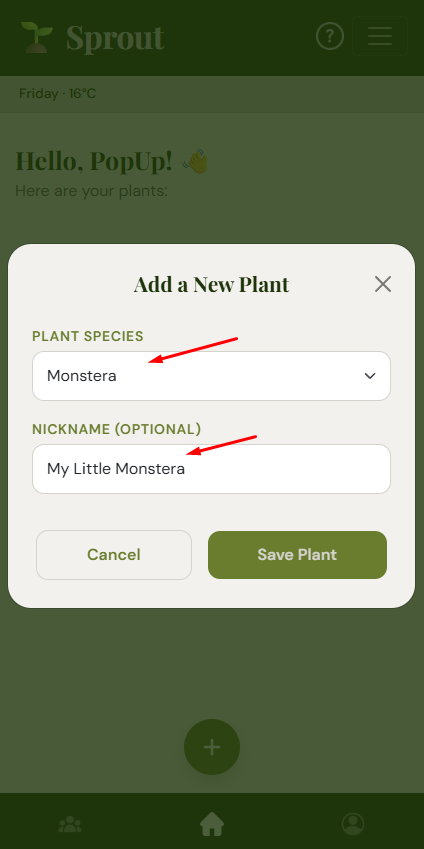
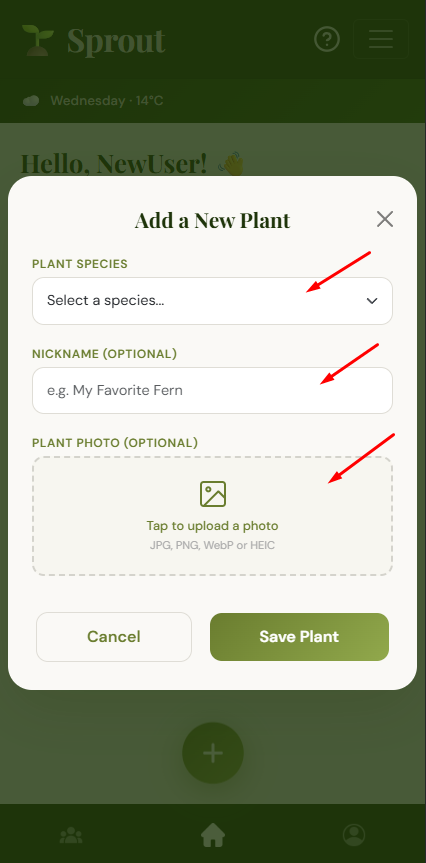
feat: Added more user guide steps and updated old images.

diff --git a/public/js/main.js b/public/js/main.js
@@ -112,10 +112,10 @@ function createPlantCard(plant) {
   const speciesName = plant.species || plant.name;
   const addedDate = plant.addedAt
     ? new Date(plant.addedAt).toLocaleDateString("en-US", {
-      year: "numeric",
-      month: "short",
-      day: "numeric",
-    })
+        year: "numeric",
+        month: "short",
+        day: "numeric",
+      })
     : "Unknown date";
 
   // Determine watering state
@@ -123,7 +123,12 @@ function createPlantCard(plant) {
   let isWatered = false;
   if (plant.lastWateredAt) {
     const last = new Date(plant.lastWateredAt).getTime();
-    const intervalDays = plant.intervalDays || (typeof plant.waterFreq === 'number' ? plant.waterFreq : getIntervalDays(plant.waterFreq)) || 7;
+    const intervalDays =
+      plant.intervalDays ||
+      (typeof plant.waterFreq === "number"
+        ? plant.waterFreq
+        : getIntervalDays(plant.waterFreq)) ||
+      7;
     const intervalMs = intervalDays * 24 * 60 * 60 * 1000;
     if (now - last < intervalMs) {
       isWatered = true;
@@ -217,8 +222,14 @@ function createPlantCard(plant) {
     : "";
 
   // Format water frequency if it's just a number
-  const resolvedDays = plant.intervalDays || (typeof plant.waterFreq === 'number' ? plant.waterFreq : getIntervalDays(plant.waterFreq)) || 7;
-  let displayFreq = resolvedDays == 1 ? "Every day" : `Every ${resolvedDays} days`;
+  const resolvedDays =
+    plant.intervalDays ||
+    (typeof plant.waterFreq === "number"
+      ? plant.waterFreq
+      : getIntervalDays(plant.waterFreq)) ||
+    7;
+  let displayFreq =
+    resolvedDays == 1 ? "Every day" : `Every ${resolvedDays} days`;
 
   wrapper.innerHTML = `
     <div class="plant-card" data-plant-id="${plant.id}">
@@ -773,15 +784,17 @@ function openEditModal(plant) {
   // Resolve current interval days
   let currentDays = plant.intervalDays;
   if (!currentDays) {
-    currentDays = typeof plant.waterFreq === "number"
-      ? plant.waterFreq
-      : getIntervalDays(plant.waterFreq);
+    currentDays =
+      typeof plant.waterFreq === "number"
+        ? plant.waterFreq
+        : getIntervalDays(plant.waterFreq);
   }
   document.getElementById("editPlantWaterFreq").value = currentDays || 7;
 
   // Open modal
   const modalEl = document.getElementById("editPlantModal");
-  const modal = bootstrap.Modal.getInstance(modalEl) || new bootstrap.Modal(modalEl);
+  const modal =
+    bootstrap.Modal.getInstance(modalEl) || new bootstrap.Modal(modalEl);
   modal.show();
 }
 
@@ -819,7 +832,8 @@ async function saveEditPlant() {
 
     // Close modal
     const modalEl = document.getElementById("editPlantModal");
-    const modal = bootstrap.Modal.getInstance(modalEl) || new bootstrap.Modal(modalEl);
+    const modal =
+      bootstrap.Modal.getInstance(modalEl) || new bootstrap.Modal(modalEl);
     modal.hide();
 
     await renderPlants();
@@ -845,15 +859,31 @@ const guideData = [
   },
   {
     img: "/images/guide_step3.png",
-    text: "Identify your species and drop a nickname to begin your tracking journey! Pick the correct match to keep your plant healthy and your data accurate!",
+    text: "Identify your species and drop a nickname to begin your tracking journey! Do not forget to upload your plant photo! Make sure to select the correct species for accurate care instructions and reminders. You can always edit these details later if needed.",
   },
   {
     img: "/images/guide_step4.png",
-    text: "Tap on your plant card to see your daily checklist and click the details button for more information.",
+    text: "Your plant's need will be displayed top of the card. Tap the card to expand a checklist of care tasks like watering, misting, rotating, and harvesting. Check off tasks as you complete them to keep your plant happy and healthy! If you need more information about a care task, tap the 'Details' button.",
   },
   {
     img: "/images/guide_step5.png",
     text: "Details page includes care instructions, watering schedule, and fun facts about your plant. Check back often for updates and tips!",
+  },
+  {
+    img: "/images/guide_step6.png",
+    text: "Now we have our Community Page! By clicking the 'Community' tab, you can access it.",
+  },
+  {
+    img: "/images/guide_step7.png",
+    text: "Ones you access the community page, you can display the posts of other users, you can like on them. You can also share your plant's progress and photos with our community by creating your own post!",
+  },
+  {
+    img: "/images/guide_step8.png",
+    text: "For sharing your post, simply click the 'Share a Post' button. You can write about your plant's progress, share care tips with the community. Don't forget to add a photo of your plant to inspire others!",
+  },
+  {
+    img: "/images/guide_step9.png",
+    text: "Refresh the community page to see your post live and engage with other plant lovers by liking on their posts. Happy planting and sharing!",
   },
 ];
 
